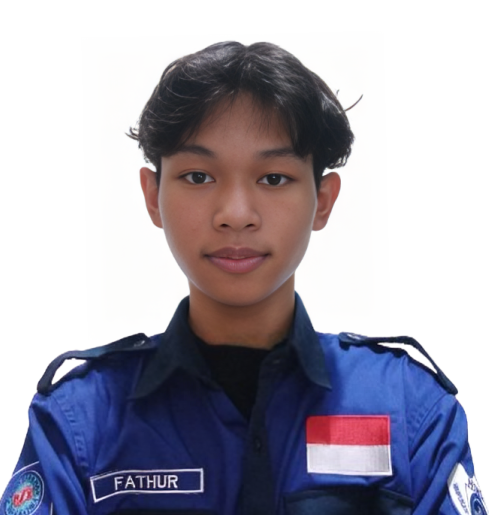
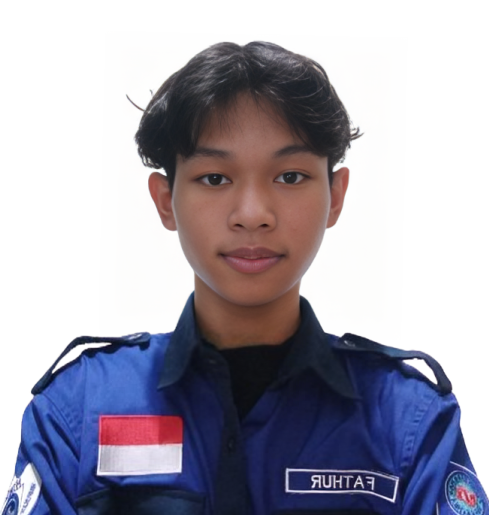
save

Changed region(s): [[0.0, 0.0621, 1.0, 1.0], [0.5521, 0.7456, 0.5828, 0.7767], [0.3988, 0.7456, 0.4294, 0.7767]]

diff --git a/data/projects.ts b/data/projects.ts
@@ -10,43 +10,43 @@ export const projects: Project[] = [
     slug: "basara",
     title: "BASARA: Waste Bank System for RW 042",
     originalName: "Sistem Aplikasi Bank Sampah RW 042 (BASARA)",
-    problem: "[TODO: one-line problem statement, e.g. who struggled with what before BASARA]",
-    role: "[TODO: your specific role, e.g. sole developer, backend lead, what you owned]",
-    stack: ["[TODO: tech stack, e.g. Laravel, PostgreSQL, Tailwind CSS]"],
+    problem: "Pengelolaan operasional bank sampah di RW 042 masih mengandalkan pembukuan fisik manual",
+    role: "Fullstack Web Developer",
+    stack: ["Laravel, MySQL, Tailwind CSS"],
     features: [
-      "[TODO: key feature 1]",
-      "[TODO: key feature 2]",
-      "[TODO: key feature 3]",
+      "Pencatatan setoran sampah multi-item dalam satu formulir dinamis",
+      "Sistem pendukung keputusan untuk menentukan nasabah terbaik",
+      "Portal Layanan Mandiri Warga & Dasbor Keuangan Interaktif",
     ],
-    outcome: "[TODO: outcome, e.g. who uses it now, what changed, any real number you can verify]",
+    outcome: "Mengeliminasi pembukuan berbasis kertas, mempercepat rekapitulasi laporan bulanan dari hitungan jam menjadi hitungan detik, serta meningkatkan transparansi saldo warga.",
     architecture:
-      "[TODO: architecture overview, e.g. Laravel MVC app, PostgreSQL schema, auth, where it is deployed]",
+      "Laravel MVC app, PostgreSQL schema, auth, where it is deployed",
     challenges: [
       {
-        challenge: "[TODO: a concrete problem you hit]",
-        solution: "[TODO: how you solved it]",
+        challenge: "Risiko inkonsistensi saldo dan data korup saat pencatatan transaksi multi-tabel",
+        solution: "Menerapkan `DB::transaction()` pada alur *checkout/store*, memastikan tabel `transaksi`, `detail_transaksi`, pembaruan saldo pada tabel `nasabah`, dan *record* `penarikan_dana` dieksekusi secara *atomic* (*all-or-nothing*)",
       },
     ],
-    nextSteps: ["[TODO: what you would improve next]"],
-    liveUrl: "[TODO: live demo URL]",
-    githubUrl: "[TODO: GitHub URL]",
-    image: null,
+    nextSteps: ["Integrasi WhatsApp API untuk notifikasi otomatis rincian setoran dan status pencairan saldo ke ponsel warga secara real-time"],
+    liveUrl: "https://basara.up.railway.app/",
+    githubUrl: "https://github.com/fathurrahmanrifaldi/BASARA",
+    image: "/projects/basara.png",
     imageAlt: "Screenshot of the BASARA waste bank system dashboard",
   },
   {
     slug: "eva-salon",
     title: "Eva Salon Booking Website",
     originalName: "Website Booking Eva Salon",
-    problem: "[TODO: one-line problem statement]",
-    role: "[TODO: your specific role]",
-    stack: ["[TODO: tech stack]"],
+    problem: "Manajemen jadwal dan pemesanan di Eva Salon masih manual dan rentan kesalahan",
+    role: "Fullstack Web Developer",
+    stack: ["Laravel, MySQL, Tailwind CSS"],
     features: [
-      "[TODO: key feature 1]",
-      "[TODO: key feature 2]",
-      "[TODO: key feature 3]",
+      "Sistem pemesanan online dengan kalender interaktif",
+      "Notifikasi otomatis ke pelanggan dan staf",
+      "Dashboard administrasi untuk mengelola jadwal dan transaksi",
     ],
-    outcome: "[TODO: outcome]",
-    architecture: "[TODO: architecture overview]",
+    outcome: "Meningkatkan efisiensi operasional salon, mengurangi antrian manual, dan memberikan pengalaman pelanggan yang lebih baik.",
+    architecture: "Laravel MVC app, MySQL schema, auth, where it is deployed",
     challenges: [
       {
         challenge: "[TODO: a concrete problem you hit]",
@@ -54,25 +54,25 @@ export const projects: Project[] = [
       },
     ],
     nextSteps: ["[TODO: what you would improve next]"],
-    liveUrl: "[TODO: live demo URL]",
-    githubUrl: "[TODO: GitHub URL]",
-    image: null,
+    liveUrl: "https://evasalon.up.railway.app/",
+    githubUrl: "https://github.com/fathurrahmanrifaldi/eva-salon",
+    image: "/projects/evasalon.png",
     imageAlt: "Screenshot of the Eva Salon booking website",
   },
   {
-    slug: "warung-pak-raswan",
-    title: "Inventory & Stock Adjustment System for Warung Sembako Pak Raswan",
+    slug: "simbako",
+    title: "Sistem Manajemen Inventaris & POS Warung Sembako Berbasis PWA",
     originalName: "Sistem Inventaris dan Penyesuaian Stok - Warung Sembako Pak Raswan",
-    problem: "[TODO: one-line problem statement]",
-    role: "[TODO: your specific role]",
-    stack: ["[TODO: tech stack]"],
+    problem: "Warung sembako konvensional umumnya mengandalkan pembukuan manual di buku tulis ",
+    role: "Fullstack Web Developer",
+    stack: ["Laravel, PostgreSQL, Tailwind CSS"],
     features: [
-      "[TODO: key feature 1]",
-      "[TODO: key feature 2]",
-      "[TODO: key feature 3]",
+      "Sistem manajemen inventaris yang memungkinkan pencatatan dan pemantauan stok secara real-time",
+      "Point of Sale (POS) berbasis PWA untuk memudahkan transaksi penjualan",
+      "Laporan keuangan dan analisis penjualan yang dapat diakses secara mudah",
     ],
-    outcome: "[TODO: outcome]",
-    architecture: "[TODO: architecture overview]",
+    outcome: "Meningkatkan efisiensi operasional warung sembako, mengurangi kesalahan pencatatan, dan memberikan visibilitas yang lebih baik terhadap kondisi stok.",
+    architecture: "Laravel MVC app, PostgreSQL schema, auth, where it is deployed",
     challenges: [
       {
         challenge: "[TODO: a concrete problem you hit]",
@@ -80,9 +80,9 @@ export const projects: Project[] = [
       },
     ],
     nextSteps: ["[TODO: what you would improve next]"],
-    liveUrl: "[TODO: live demo URL]",
-    githubUrl: "[TODO: GitHub URL]",
-    image: null,
+    liveUrl: "https://simbako.up.railway.app/login",
+    githubUrl: "https://github.com/fathurrahmanrifaldi/simbako",
+    image: "/projects/simbako.png",
     imageAlt: "Screenshot of the Warung Pak Raswan inventory system",
   },
 ];

diff --git a/data/profile.ts b/data/profile.ts
@@ -8,7 +8,7 @@ export const profile: Profile = {
     "I build Laravel and PostgreSQL web apps for small organizations, from a neighborhood waste bank to a local salon's booking system.",
   status: "7th-semester Information Systems student",
   location: "Indonesia",
-  availability: "[TODO: start date, duration, remote/onsite/hybrid, city]",
+  availability: "",
   email: "fathurrahmanrifaldi@gmail.com",
   cvUrl:
     "https://drive.google.com/drive/folders/1c0MO0Me3gWy0X6Afk5jIkpq92qbi8WCk?usp=sharing",
@@ -33,16 +33,16 @@ export const profile: Profile = {
     },
   ],
   about: [
-    "I study Information Systems at Universitas Bina Sarana Informatika, now in my 7th semester. I build fullstack web apps with Laravel and PHP, store data in PostgreSQL or MySQL, and ship with Docker to Vercel or Render.",
-    "[TODO: describe how you work in 2-3 sentences, e.g. how you plan a feature, how you test it, and how you review code from AI tools like GitHub Copilot or Codex before you commit it.]",
+    "I study Information Systems at Universitas Bina Sarana Informatika, now in my 7th semester. I build fullstack web apps with Laravel and PHP, store data in PostgreSQL or MySQL, and ship with Docker to Vercel or Railway.",
+    "I work by first understanding the problem and planning the solution, then implementing it with clean and maintainable code. I thoroughly test my code and review it carefully before committing.",
   ],
   lookingFor:
-    "I'm looking for a Fullstack or Web Developer internship (PKL/magang). [TODO: name the kind of team or product you want to work on.]",
+    "I'm looking for a Fullstack or Web Developer internship (PKL/magang). I can work on-site or remotely, and I can commit for 3-6 months.",
   facts: [
     { label: "Focus", value: "Fullstack web development" },
     { label: "Study", value: "Information Systems, 7th semester" },
     { label: "GPA", value: "3.7 / 4.0" },
-    { label: "Based in", value: "Indonesia [TODO: city]" },
-    { label: "Availability", value: "[TODO: start date, duration, work mode]" },
+    { label: "Based in", value: "Indonesia, Bekasi" },
+    { label: "Availability", value: "Available, 3-6 months, on-site/remote" },
   ],
 };

diff --git a/data/skills.ts b/data/skills.ts
@@ -2,9 +2,9 @@ import type { SkillGroup } from "@/lib/types";
 
 export const skills: SkillGroup[] = [
   { name: "Frontend", icon: "frontend", items: ["JavaScript", "Blade","Tailwind CSS"] },
-  { name: "Backend", icon: "backend", items: ["Laravel", "PHP"] },
+  { name: "Backend", icon: "backend", items: ["Laravel", "PHP", "Supabase"] },
   { name: "Database", icon: "database", items: ["PostgreSQL", "MySQL"] },
-  { name: "Cloud & DevOps", icon: "cloud", items: ["Docker", "CI/CD", "Vercel", "Render"] },
+  { name: "Cloud & DevOps", icon: "cloud", items: ["Docker", "CI/CD", "Vercel", "Railway"] },
   { name: "Tools", icon: "tools", items: ["Git", "GitHub", "Figma", "Linux", "Postman"] },
   {
     name: "AI Coding",

diff --git a/components/sections/Hero.tsx b/components/sections/Hero.tsx
@@ -50,10 +50,6 @@ export function Hero() {
               <Download width={18} height={18} />
               Download CV
             </ButtonLink>
-            <ButtonLink href="#contact" variant="ghost" id="cta-contact">
-              <Mail width={18} height={18} />
-              Contact
-            </ButtonLink>
           </div>
 
           <ul className="text-muted animate-fade-up mt-10 flex flex-wrap gap-x-6 gap-y-2 text-sm [animation-delay:300ms]">
